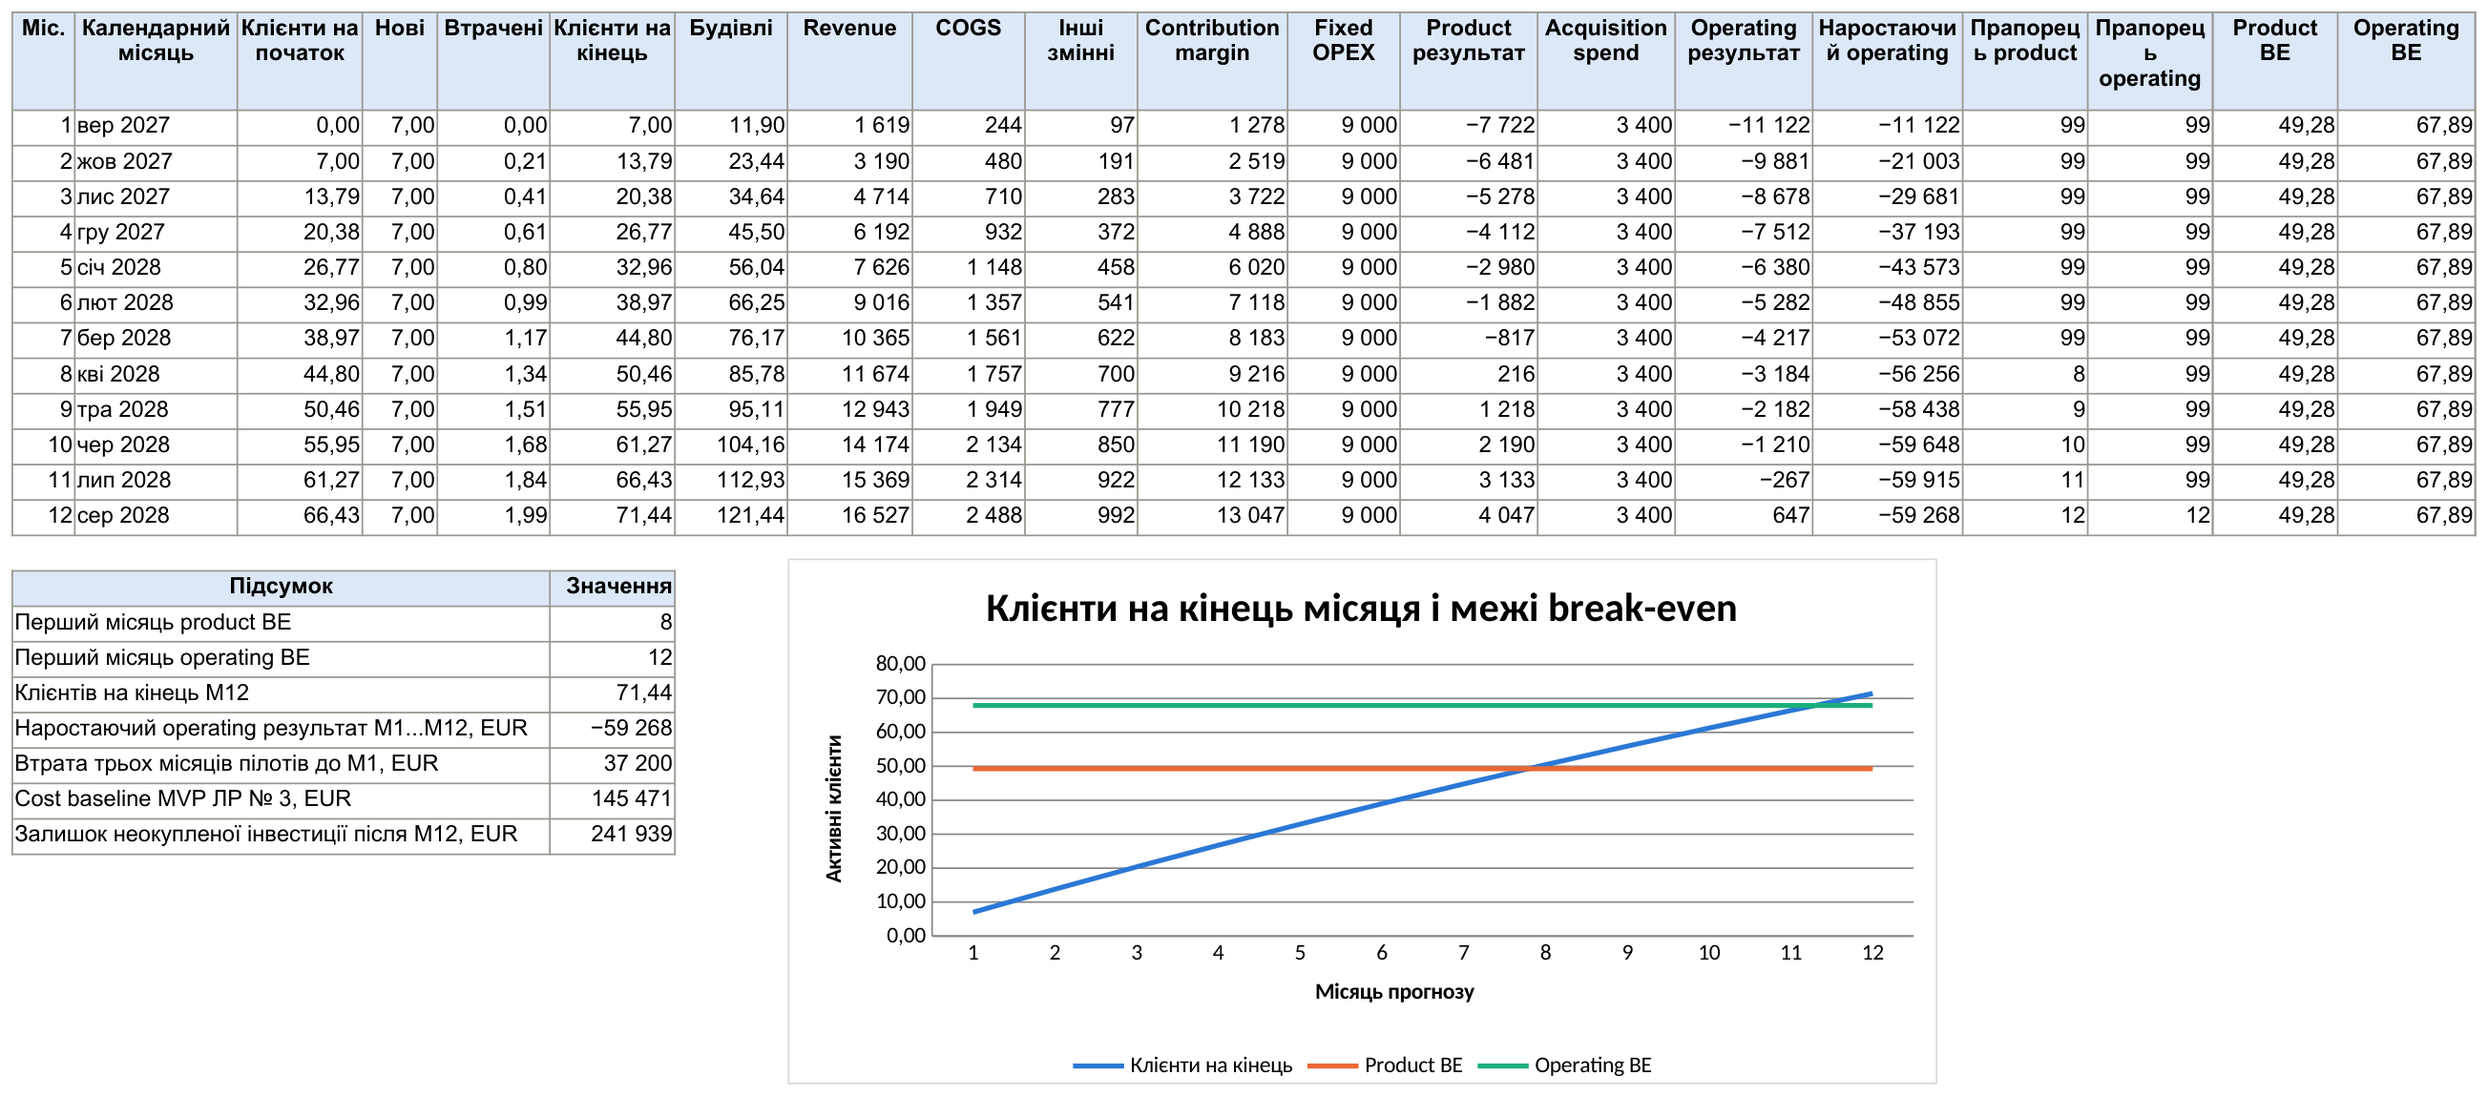
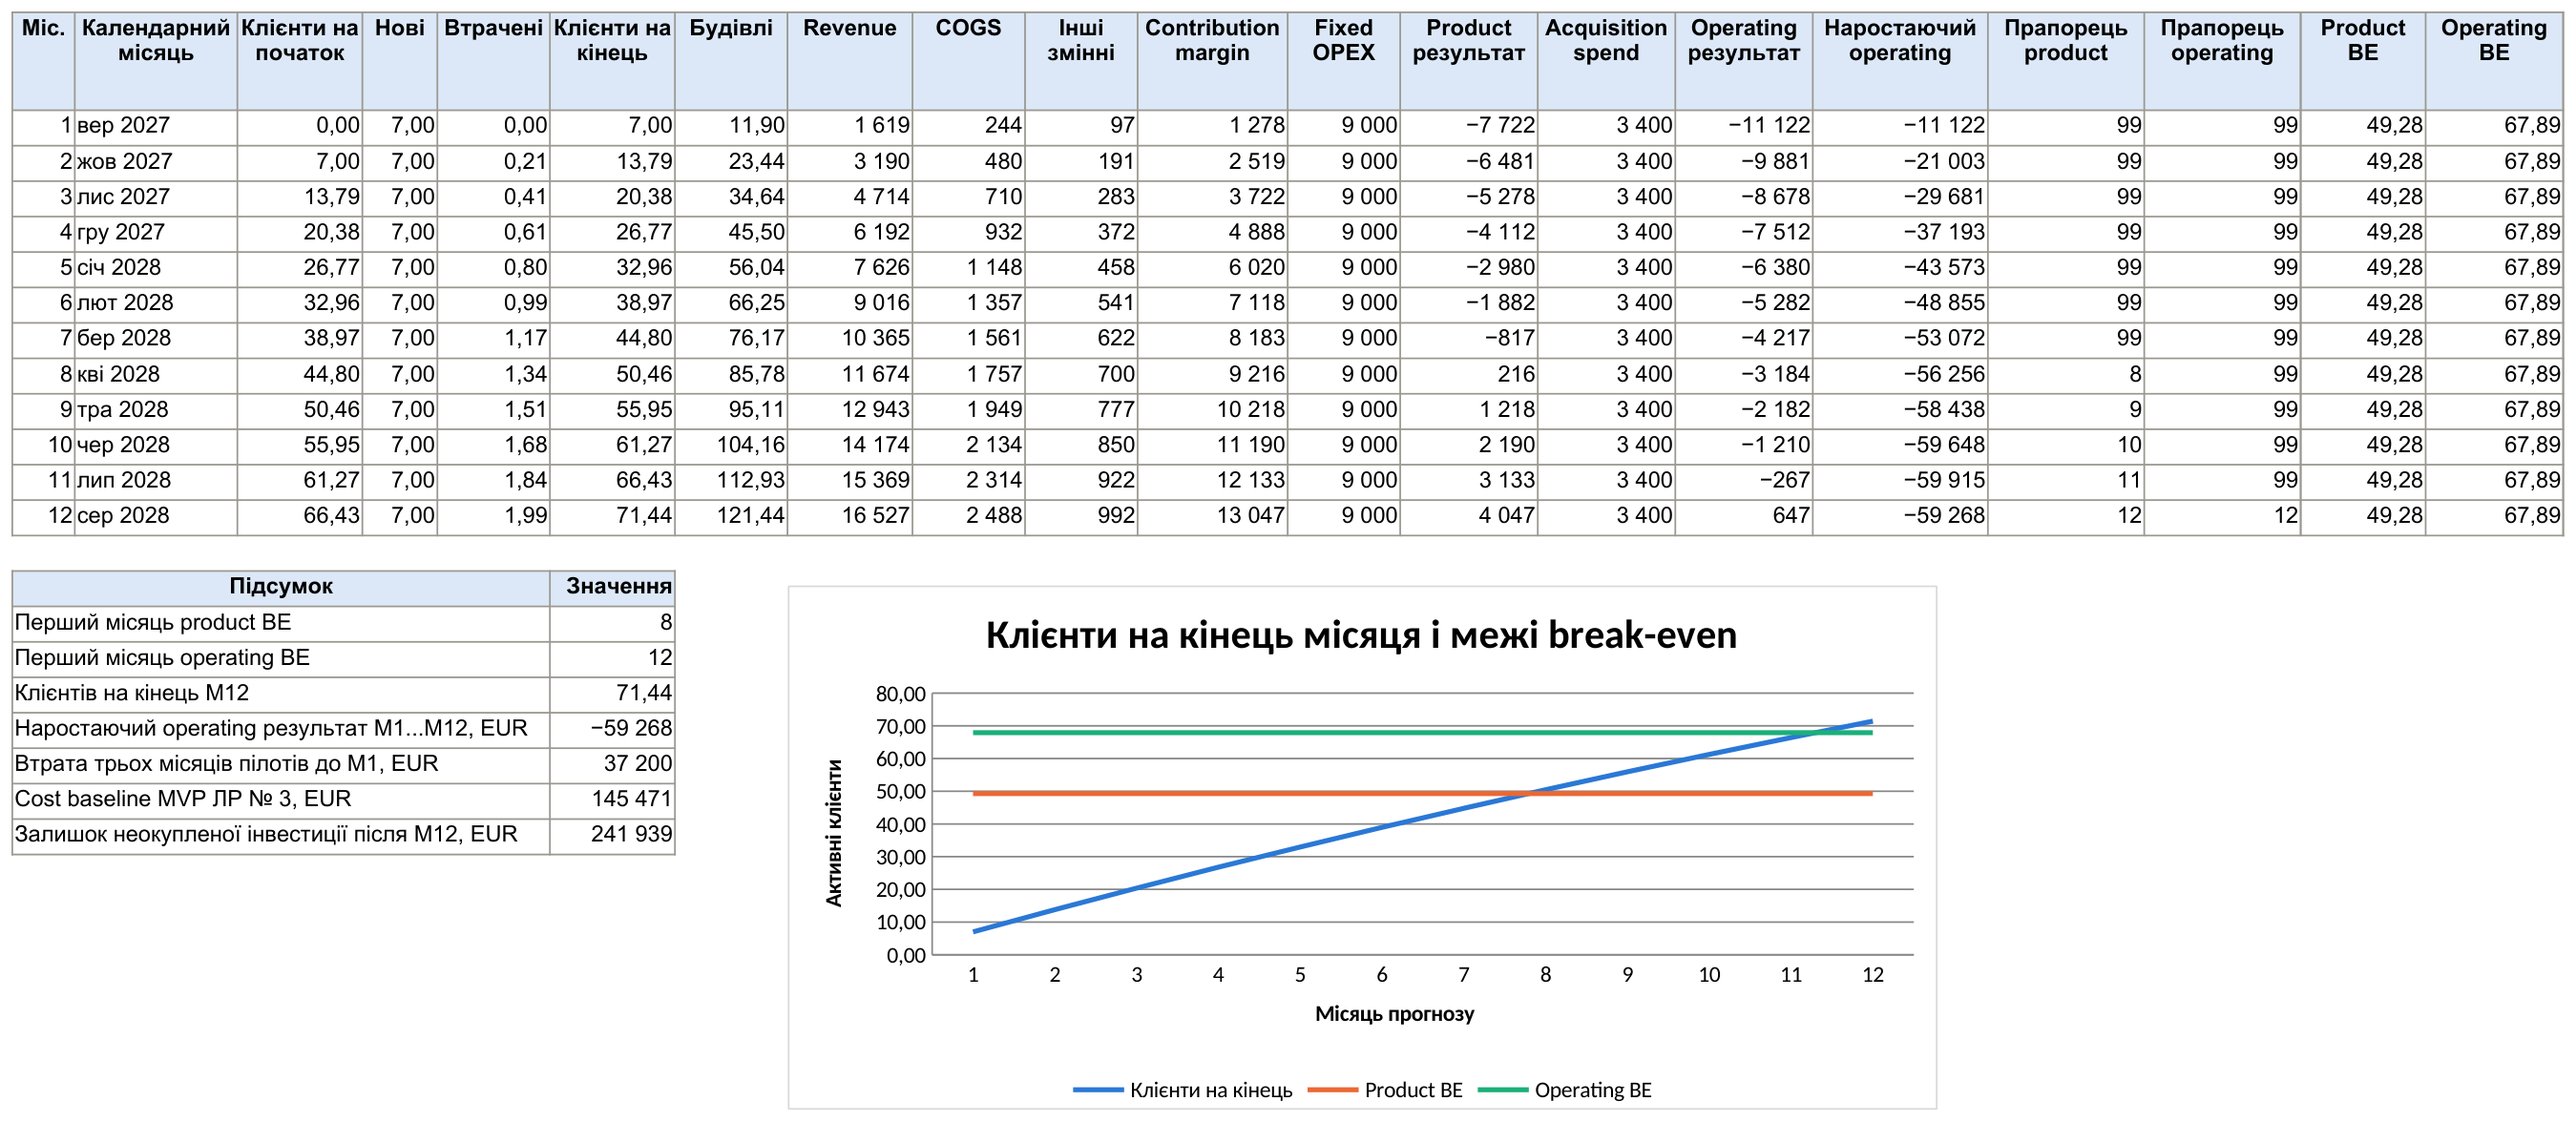
Lab 5 review fixes: price factor scales overage rate, wider forecast sheet headers

diff --git a/lab5/build_lab5.py b/lab5/build_lab5.py
@@ -309,7 +309,7 @@ def sheet_forecast(wb):
     ch.width = 18
     ch.legend.position = "b"
     ws.add_chart(ch, f"H{s0 + 1}")
-    col_widths(ws, [5, 13, 10, 6, 9, 10, 9, 10, 9, 9, 12, 9, 11, 11, 11, 12, 10, 10, 2, 10, 11])
+    col_widths(ws, [5, 13, 10, 6, 9, 10, 9, 10, 9, 9, 12, 9, 11, 11, 11, 14, 12.5, 12.5, 2, 10, 11])
     k.page(ws)
 
 
@@ -323,7 +323,7 @@ SENS = [
         ("Місяць operating BE", lambda c, kk: month_formula("x5_be_o", f"{c}{{r0}}"), "0"),
     ]),
     ("price", "Ціна", [
-        ("ARPA, EUR", lambda c, kk: f"=(x5_rev_bu*{kk}+x5_over)/x5_clients", "#,##0.00"),
+        ("ARPA, EUR", lambda c, kk: f"=(x5_rev_bu+x5_over)*{kk}/x5_clients", "#,##0.00"),
         ("Gross margin", lambda c, kk: f"=({c}{{r0}}-x5_cogs_pa)/{c}{{r0}}", "0.00%"),
         ("CM на акаунт, EUR", lambda c, kk: f"={c}{{r0}}*(1-x5_ovshare)-x5_cogs_pa", "#,##0.00"),
         ("Просте LTV, EUR", lambda c, kk: f"={c}{{r0}}*{c}{{r1}}/x5_churn", "#,##0.00"),
@@ -373,7 +373,7 @@ def sheet_sens(wb):
     k.style_table(ws, 1, 1, r - 1, 5)
     for key, _, _ in SENS:
         ws.cell(LAYOUT["sens_" + key], 1).font = Font(name="Arial", size=10, bold=True)
-    ws.cell(r + 1, 1, "Припущення для ціни: COGS на акаунт 34,83 EUR і overage 467,5 EUR незмінні; змінюються базовий платіж і ціна будівлі; інші змінні витрати 6% від нової ARPA.")
+    ws.cell(r + 1, 1, "Припущення для ціни: змінюються всі ціни прайсу (базовий платіж, ціна будівлі, ставка overage 55 EUR); COGS на акаунт 34,83 EUR незмінний; інші змінні витрати 6% від нової ARPA.")
     ws.cell(r + 2, 1, "Припущення для CAC: 7 нових клієнтів сталі, тому CAC змінюється разом з acquisition spend.")
     col_widths(ws, [34, 14, 14, 14, 22])
     k.page(ws, landscape=False)

diff --git a/econ_model.py b/econ_model.py
@@ -1282,7 +1282,7 @@ def avg_usage(tiers=TIERS):
     return sum(t.mix * t.usage for t in tiers)
 
 
-def scenario(k, p4=P4, tiers=TIERS, price_mult=1.0):
+def scenario(k, p4=P4, tiers=TIERS, price_mult=1.0, over_mult=1.0):
     buildings = p4["scale_y3"] * k
     clients = buildings / avg_usage(tiers)
     rows = {}
@@ -1295,7 +1295,7 @@ def scenario(k, p4=P4, tiers=TIERS, price_mult=1.0):
         usage_rev += b * t.per_building * price_mult
         client_c += c * t.client_cogs
     high = buildings * p4["high_share"]
-    over_rev = high * overage_high(p4)
+    over_rev = high * overage_high(p4) * over_mult
     building_c = (buildings - high) * cogs_building() + high * cogs_building(True, p4)
     rev = base_rev + usage_rev + over_rev
     cogs = client_c + building_c
@@ -1435,7 +1435,7 @@ def funnel(p5=P5):
 
 
 def base_month_y3(price_mult=1.0):
-    return scenario(1.0, price_mult=price_mult)
+    return scenario(1.0, price_mult=price_mult, over_mult=price_mult)
 
 
 def unit_economics(p5=P5, price_mult=1.0):
